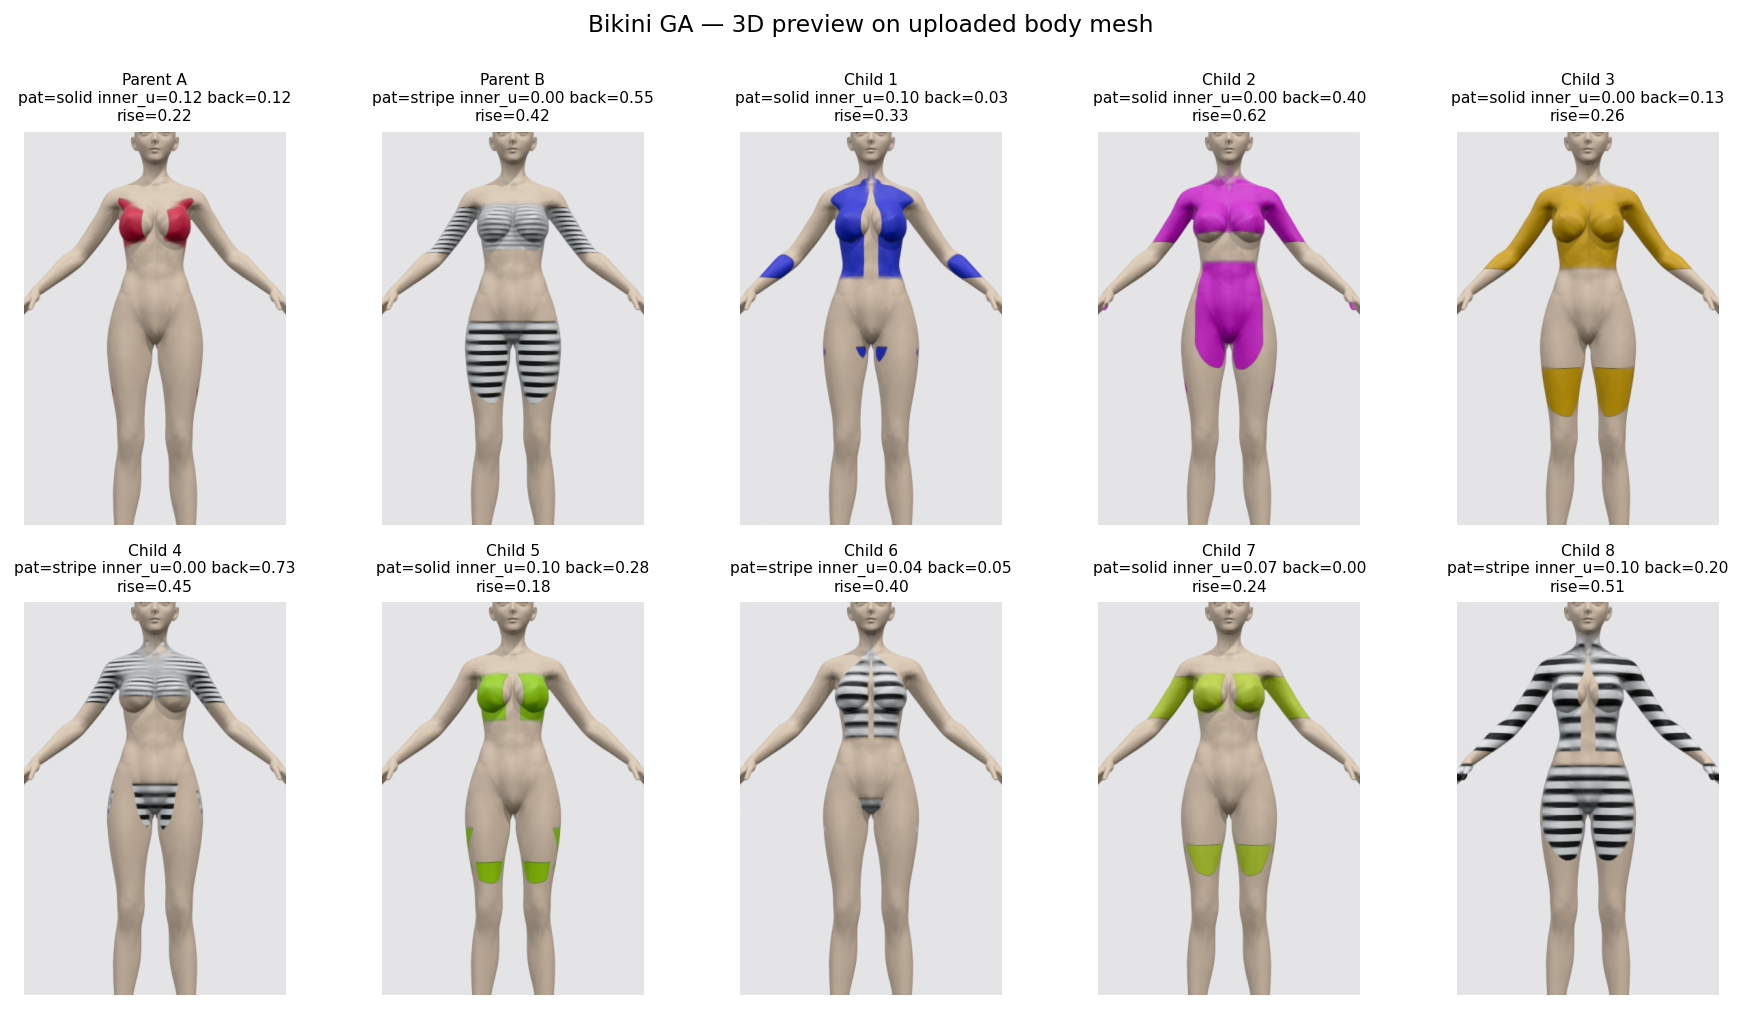
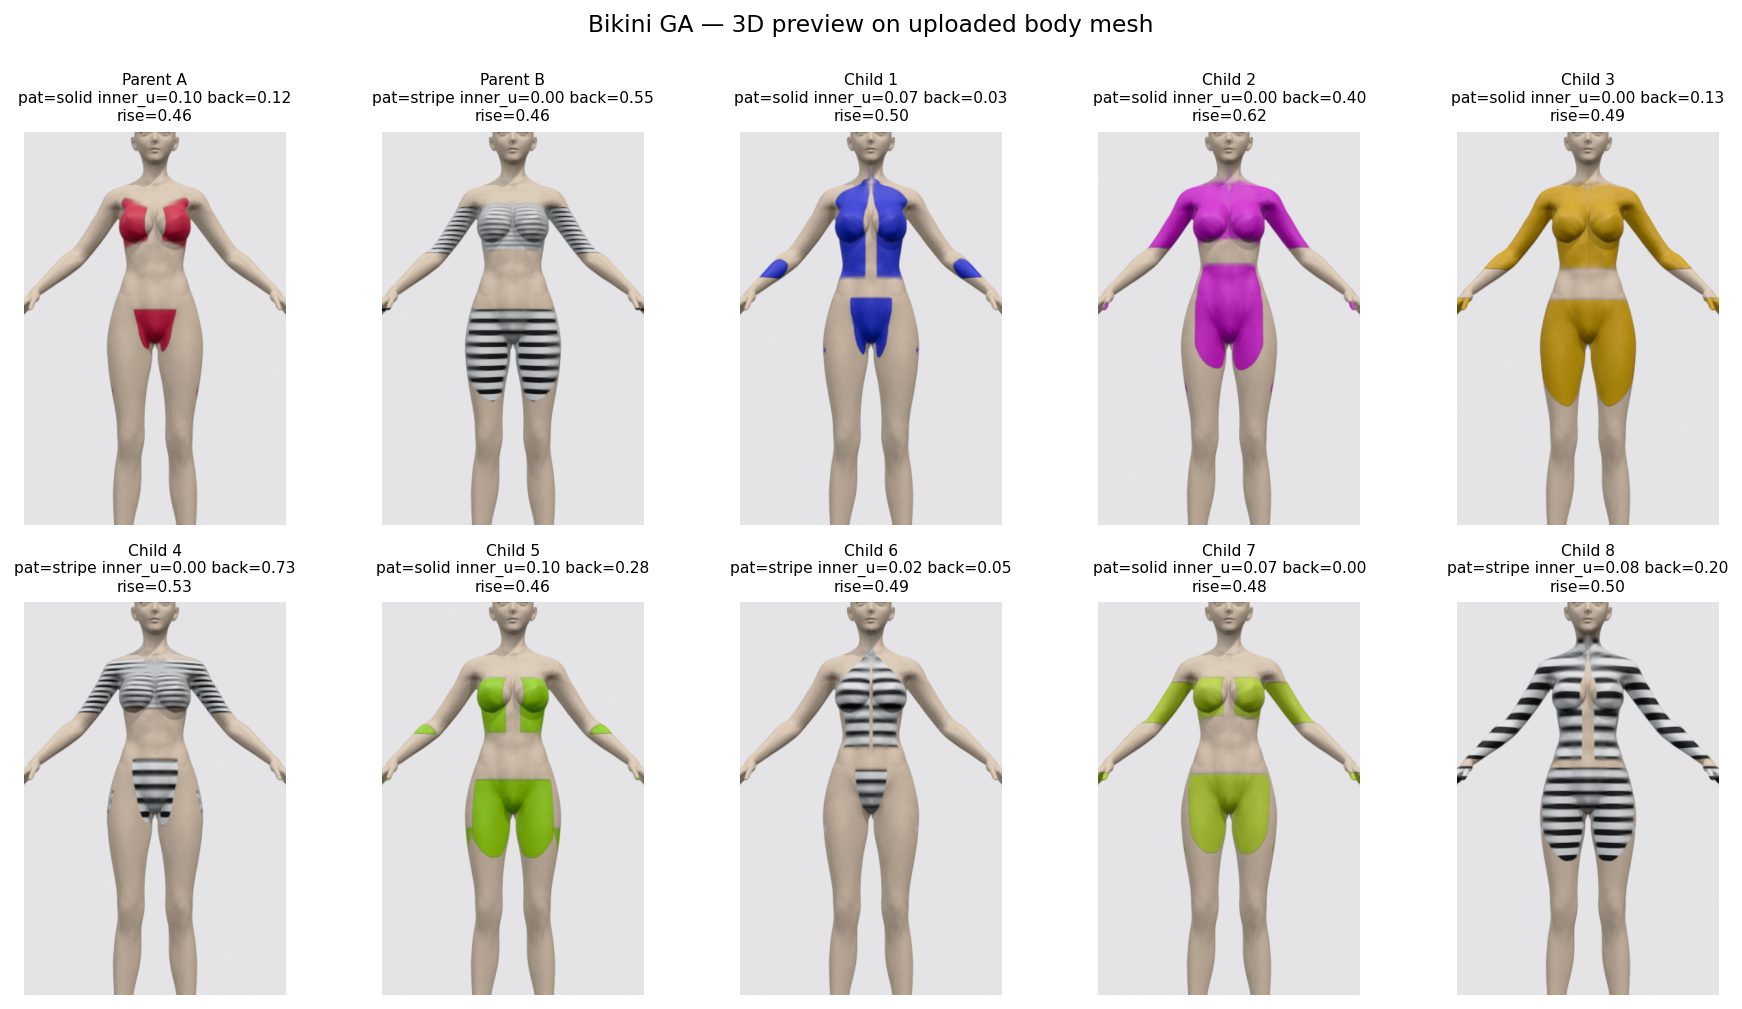
ga: relocate privacy seeds to match this NPC mesh's anatomy
Two bugs kept Parent A's pelvic area uncovered:

1. PRIVACY_SEEDS['pelvic_front'] was at v=[0.06, 0.14], which on this UE
   body maps to body y~60-70 — i.e., between the diverging thighs where
   the mesh has no surface. The cylindrical UV projection places the
   actual pubic front at body y=88-96, i.e., Genome v=[0.32, 0.42]. The
   nipple seeds were also slightly off; move them to v=[0.70, 0.80].

2. make_parents() returned Genomes with only .clipped() applied, not
   _enforce_constraints, so the seed-driven parameter clamps never ran
   on parents. Now it returns enforced Genomes so Parent A's
   bot_front_top_v=0.22 gets bumped to 0.46 (just above the pelvic seed)
   and top_inner_u=0.12 gets tightened to 0.095 so the cup's inner edge
   stays inside the nipple seed.

Result: every genome's front panel now reaches from crotch up past the
pelvic seed; every cup fully covers the nipple seed. Verified visually
with a colored-seed probe texture applied to the body.

diff --git a/tools/verify_ga_uv.py b/tools/verify_ga_uv.py
@@ -48,11 +48,18 @@ PATTERNS = ["solid", "stripe", "polka", "checker"]
 # parameters so the trapezoidal cups and front panel grow to at least
 # this size. They are not overlays painted on top; they're a lower bound
 # baked into the parameter ranges, so the bikini smoothly grows from them.
+#
+# Coordinate notes for the bundled UE NPC body: the cylindrical UV map
+# in render3d_uv.py places the breast peak at Genome v~=0.74 and the
+# crotch line at v~=0.18 (not 0.06 — that's the Genome's LANDMARKS_V
+# convention, which sits below the body's crotch on this mesh). Seeds
+# are therefore placed in the Genome v range that actually overlaps the
+# anatomy, not where LANDMARKS_V would put them.
 #   (u_lo, u_hi, v_lo, v_hi)
 PRIVACY_SEEDS = {
-    "right_nipple": (0.10, 0.18, 0.74, 0.82),
-    "left_nipple":  (-0.18, -0.10, 0.74, 0.82),
-    "pelvic_front": (-0.08, 0.08, 0.06, 0.14),
+    "right_nipple": (0.10, 0.22, 0.70, 0.80),
+    "left_nipple":  (-0.22, -0.10, 0.70, 0.80),
+    "pelvic_front": (-0.08, 0.08, 0.30, 0.42),
 }
 
 # Continuous Genome fields. Kept flat so GA operators are uniform.
@@ -433,7 +440,7 @@ def make_parents() -> tuple[Genome, Genome]:
         bot_back_top_v=0.42, bot_back_half_u=0.55,
         hue=0.57, saturation=0.85,
     )
-    return a.clipped(), b.clipped()
+    return _enforce_constraints(a.clipped()), _enforce_constraints(b.clipped())
 
 
 def run_ga(a: Genome, b: Genome, n: int, rng: random.Random) -> list[Genome]:
